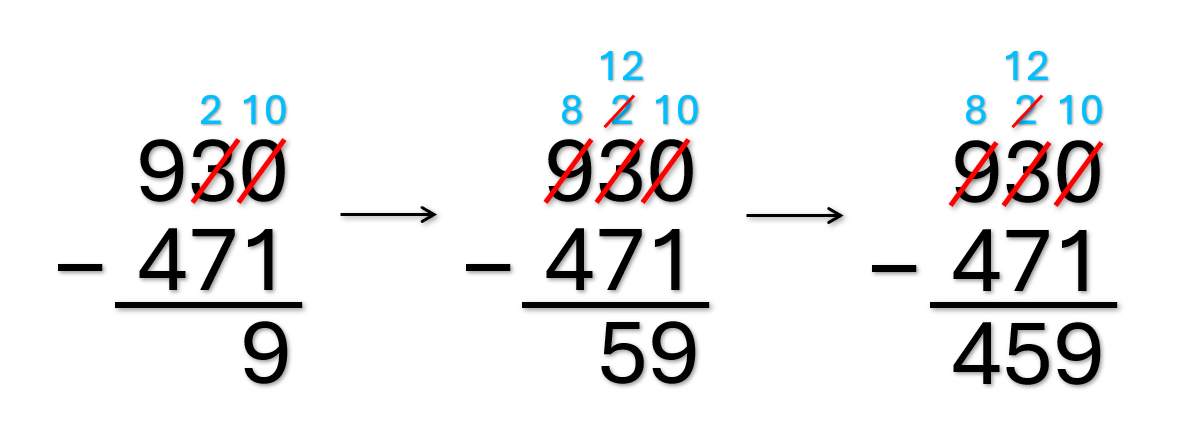
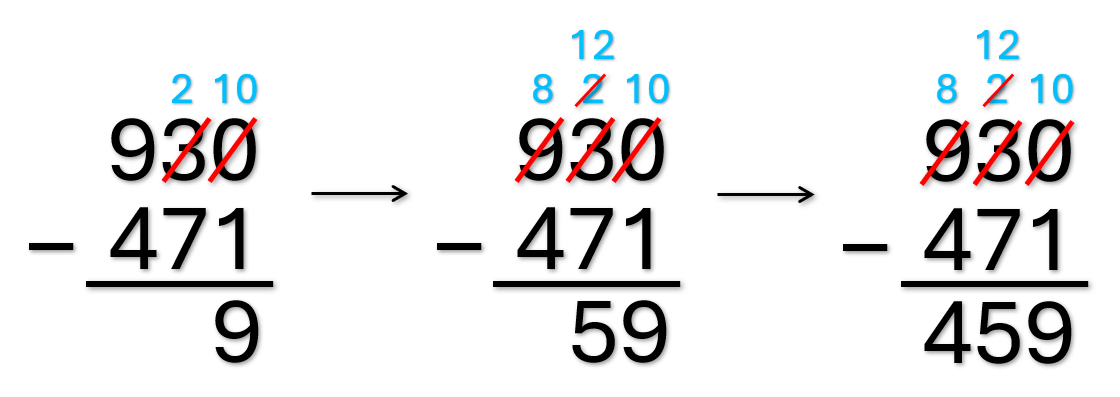
Make pictures responsive with different screen sizes.

diff --git a/subtraction.html b/subtraction.html
@@ -28,16 +28,16 @@
     <div>
         <h2>What is Subtraction?</h2>
             <p><strong>Subtraction </strong>is when we have a number and we are taking another number away from it.</p>
-            <img src="images/Subtraction_With_Shapes.PNG" alt="Subtraction problem with shapes" style="width:850px;height:350px";>
+            <img src="images/Subtraction_With_Shapes.PNG" alt="Subtraction problem with shapes";>
             <p>We can think of it as starting with a number and count down from it.</p>
-            <img src="images/Subtraction_With_Number_Line.PNG" alt="Subtraction problem with a number line" style="width:800px;height:300px";>
+            <img src="images/Subtraction_With_Number_Line.PNG" alt="Subtraction problem with a number line";>
             <p>When we read or say a subtraction problem we say, "A number minus another number equals a number".</p>
-            <img src="images/Subtraction_In_Words.PNG" alt="Subtraction problem in words" style="width:950px;height:250px";>
+            <img src="images/Subtraction_In_Words.PNG" alt="Subtraction problem in words";>
             <h3>Different Parts of a Subtraction Problem</h3>
                 <p>The number that is being subtracted from is called the <strong>minuend</strong>.</p>
                 <p>The number that is doing the subtracting is called the <strong>subtrahend</strong>.</p>
                 <p>The answer to a subtraction problem is called a <strong>difference</strong>.</p>
-                <img src="images/Subtraction_Problem_With_Labels.PNG" alt="Subtraction problem with labels" style="width:600px;height:260px";>
+                <img src="images/Subtraction_Problem_With_Labels.PNG" alt="Subtraction problem with labels";>
             <p><b>Note: </b>The order of the numbers matter when subtracting. For Example, 9 - 3 is NOT the same
                 as 3 - 9</p>
     </div>
@@ -47,7 +47,7 @@
                 making columns.</p>
             <p>To subtract numbers using columns, we do the same thing as addition except we write a minus sign and
                 the answer is the difference.</p>
-            <img src="images/Subtraction_In_Columns.PNG" alt="Subtraction in columns" style="width:850px;height:220px";>
+            <img src="images/Subtraction_In_Columns.PNG" alt="Subtraction in columns";>
             <p>This is also a common way to subtract numbers with two or more digits.</p>
     </div>
     <div>
@@ -55,14 +55,14 @@
             <p>To subtract two-or-more-digit numbers, we will use columns just like with addition. To do this,
                 write one number below the other, with the place values lining up.</p>
             <p>Then subtract the numbers one column at a time.</p>
-            <img src="images/Subtraction_With_Two_Digits.PNG" alt="Subtracting numbers with two digits" style="width:500px;height:250px";>
+            <img src="images/Subtraction_With_Two_Digits.PNG" alt="Subtracting numbers with two digits";>
             <h3>What Happens When there are Numbers that have More Digits Than Others?</h3>
                 <p>Don't worry, just like with addition we write the numbers the same way as when both numbers have
                     the same number of digits.</p>
                 <p>Then subtract the numbers one column at a time</p>
                 <p>For the columns that don't have any numbers to subtract, we simply bring it down. We can also think
                     of it as the number minus an invisible 0.</p>
-                <img src="images/Subtraction_With_More_Digits.PNG" alt="Subtracting numbers where a number has more digits" style="width:1100px;height:250px";>
+                <img src="images/Subtraction_With_More_Digits.PNG" alt="Subtracting numbers where a number has more digits";>
         <h3>Borrowing</h3>
             <p>Sometimes when we subtract numbers in a column, the top number is smaller. When that happens we do
                 what is called <strong>borrowing</strong>.</p>
@@ -83,12 +83,12 @@
                     <li>Remember to use the new number borrowing. If the top number for that column is smaller, repeat
                         the steps.</li>
                 </ol>
-                <img src="images/Borrowing_One_Column_Step_1.PNG" alt="Borrowing in one column step 1" style="width:1000px;height:230px";>
-                <img src="images/Borrowing_One_Column_Step_2.PNG" alt="Borrowing in one column step 2" style="width:1000px;height:240px";>
-                <img src="images/Borrowing_One_Column_Step_3.PNG" alt="Borrowing in one column step 3" style="width:1000px;height:260px";>
-                <img src="images/Borrowing_One_Column_Step_4.PNG" alt="Borrowing in one column step 4" style="width:1000px;height:250px";>
+                <img src="images/Borrowing_One_Column_Step_1.PNG" alt="Borrowing in one column step 1";>
+                <img src="images/Borrowing_One_Column_Step_2.PNG" alt="Borrowing in one column step 2";>
+                <img src="images/Borrowing_One_Column_Step_3.PNG" alt="Borrowing in one column step 3";>
+                <img src="images/Borrowing_One_Column_Step_4.PNG" alt="Borrowing in one column step 4";>
                 <p>This is what borrowing in multiple columns looks like.</p>
-                <img src="images/Borrowing_Multiple_Columns.PNG" alt="Borrowing in multiple columns" style="width:850px;height:300px";>
+                <img src="images/Borrowing_Multiple_Columns.PNG" alt="Borrowing in multiple columns";>
             <p><b>What Happens if We are Borrowing From a Zero?</b></p>
                 <p>There will be times when the number to borrow from in the next column is a 0, but how are we supposed
                     to borrow from a number that has nothing to borrow from?</p>
@@ -97,10 +97,10 @@
                         <li>Have the 0 borrow from the number in the column next to it.</li>
                         <li>We can now borrow from the first 0 that now become 10.</li>
                     </ol>
-                    <img src="images/Borrowing_From_Zero_Step_1.PNG" alt="Borrowing from zero step 1" style="width:1000px;height:230px";>
-                    <img src="images/Borrowing_From_Zero_Step_2.PNG" alt="Borrowing from zero step 2" style="width:1000px;height:240px";>
-                    <img src="images/Borrowing_From_Zero_Step_3.PNG" alt="Borrowing from zero step 3" style="width:1000px;height:270px";>
-                    <img src="images/Borrowing_From_Zero_Step_4.PNG" alt="Borrowing from zero step 4" style="width:1000px;height:280px";>
+                    <img src="images/Borrowing_From_Zero_Step_1.PNG" alt="Borrowing from zero step 1";>
+                    <img src="images/Borrowing_From_Zero_Step_2.PNG" alt="Borrowing from zero step 2";>
+                    <img src="images/Borrowing_From_Zero_Step_3.PNG" alt="Borrowing from zero step 3";>
+                    <img src="images/Borrowing_From_Zero_Step_4.PNG" alt="Borrowing from zero step 4";>
                 <p>If there are many zeros in a row</p>
                     <ol>
                         <li>Keep on going until we get to a 0 that can borrow from a number that is not a 0.</li>
@@ -109,10 +109,10 @@
                         <li>Then the 0 before that one can now borrow.</li>
                         <li>Keep going until the first 0 has borrowed.</li>
                     </ol>
-                    <img src="images/Borrowing_From_Multiple_Zeros_Step_1.PNG" alt="Borrowing from multiple zeros step 1" style="width:1000px;height:240px";>
-                    <img src="images/Borrowing_From_Multiple_Zeros_Step_2.PNG" alt="Borrowing from multiple zeros step 2" style="width:1000px;height:240px";>
-                    <img src="images/Borrowing_From_Multiple_Zeros_Step_3.PNG" alt="Borrowing from multiple zeros step 3" style="width:1000px;height:240px";>
-                    <img src="images/Borrowing_From_Multiple_Zeros_Step_4.PNG" alt="Borrowing from multiple zeros step 4" style="width:1000px;height:270px";>
+                    <img src="images/Borrowing_From_Multiple_Zeros_Step_1.PNG" alt="Borrowing from multiple zeros step 1";>
+                    <img src="images/Borrowing_From_Multiple_Zeros_Step_2.PNG" alt="Borrowing from multiple zeros step 2";>
+                    <img src="images/Borrowing_From_Multiple_Zeros_Step_3.PNG" alt="Borrowing from multiple zeros step 3";>
+                    <img src="images/Borrowing_From_Multiple_Zeros_Step_4.PNG" alt="Borrowing from multiple zeros step 4";>
     </div>
 </body>
 </html>

diff --git a/addition.html b/addition.html
@@ -29,15 +29,15 @@
         <h2>What is Addition?</h2>
             <p><strong>Addition </strong>is when we take two or more numbers and joining it together to make a
                 bigger number.</p>
-            <img src="images/Addition_With_Shapes.PNG" alt="Addition problem with shapes" style="width:850px;height:320px";>
+            <img src="images/Addition_With_Shapes.PNG" alt="Addition problem with shapes";>
             <p>We can think of it as having a number to start with and counting up from it.</p>
-            <img src="images/Addition_With_Number_Line.PNG" alt="Addition problem with a number line" style="width:800px;height:300px";>
+            <img src="images/Addition_With_Number_Line.PNG" alt="Addition problem with a number line";>
             <p>When we read or say the addition problem we say, "A number plus another number equals a number".</p>
-            <img src="images/Addition_In_Words.PNG" alt="Addition problem in words" style="width:950px;height:250px";>
+            <img src="images/Addition_In_Words.PNG" alt="Addition problem in words";>
             <h3>Different Parts of an Addition Problem</h3>
                 <p>The numbers being added together are called <strong>addends</strong>.</p>
                 <p>The answer to an addition problem is called a <strong>sum</strong> or <strong>total</strong>.</p>
-                <img src="images/Addition_Problem_With_Labels.PNG" alt="Addition problem with labels" style="width:600px;height:260px";>
+                <img src="images/Addition_Problem_With_Labels.PNG" alt="Addition problem with labels";>
             <p><b>Note: </b>The order of the numbers don't matter when adding. For example, 7 + 4 is the same as
                 4 + 7</p>
     </div>
@@ -54,7 +54,7 @@
                     <li>Then we just add the numbers and write the sum below the line.</li>
                 </ol>
             </p>
-            <img src="images/Addition_In_Columns.PNG" alt="Addition in columns" style="width:850px;height:250px";>
+            <img src="images/Addition_In_Columns.PNG" alt="Addition in columns";>
             <p>This is also a common way to add numbers with two or more digits.</p>
     </div>
     <div>
@@ -62,14 +62,14 @@
             <p>To add numbers with two or more digits, we will add using columns. To do this, write one number below
                 the other, while making sure the place values line up.</p>
             <p>Then add the numbers one column at a time.</p>
-            <img src="images/Addition_With_Two_Digits.PNG" alt="Adding numbers with two digits" style="width:550px;height:250px";>
+            <img src="images/Addition_With_Two_Digits.PNG" alt="Adding numbers with two digits";>
             <h3>What Happens When there are Numbers that have More Digits Than Others?</h3>
                 <p>When that happens, don't panic, we just write the numbers the same way as when both numbers have the same
                     number of digits.</p>
                 <p>Then add the numbers one column at a time</p>
                 <p>For the columns that don't have any numbers to add, we simply bring it down. We can also think of it as the
                     number plus an invisible 0.</p>
-                <img src="images/Addition_With_More_Digits.PNG" alt="Adding numbers where a number has more digits" style="width:1100px;height:250px";>
+                <img src="images/Addition_With_More_Digits.PNG" alt="Adding numbers where a number has more digits";>
             <h3>Regrouping</h3>
                 <p>Sometimes when we add numbers in a column, the sum is greater than 9. When that happens we do what
                     is called <strong>regrouping</strong>.</p>
@@ -85,11 +85,11 @@
                     </ol>
                     <p><b>Note: </b>Regroup does not happen for the last column because there are no other numbers
                         to add, so we can go ahead and write down the answer.</p>
-                    <img src="images/Regrouping_One_Column_Step_1.PNG" alt="Regrouping in one column step 1" style="width:1000px;height:230px";>
-                    <img src="images/Regrouping_One_Column_Step_2.PNG" alt="Regrouping in one column step 2" style="width:1000px;height:250px";>
-                    <img src="images/Regrouping_One_Column_Step_3.PNG" alt="Regrouping in one column step 3" style="width:1000px;height:250px";>
+                    <img src="images/Regrouping_One_Column_Step_1.PNG" alt="Regrouping in one column step 1";>
+                    <img src="images/Regrouping_One_Column_Step_2.PNG" alt="Regrouping in one column step 2";>
+                    <img src="images/Regrouping_One_Column_Step_3.PNG" alt="Regrouping in one column step 3";>
                     <p>This is what regrouping in multiple columns looks like.</p>
-                    <img src="images/Regrouping_Multiple_Columns.PNG" alt="Regrouping in multiple columns" style="width:1000px;height:300px";>
+                    <img src="images/Regrouping_Multiple_Columns.PNG" alt="Regrouping in multiple columns";>
     </div>
 </body>
 </html>

diff --git a/template/styles.css b/template/styles.css
@@ -12,6 +12,8 @@ h1 {
 img {
     display: block;
     margin: auto;
+    max-width: 100%;
+    height: auto;
 }
 
 .tables {
